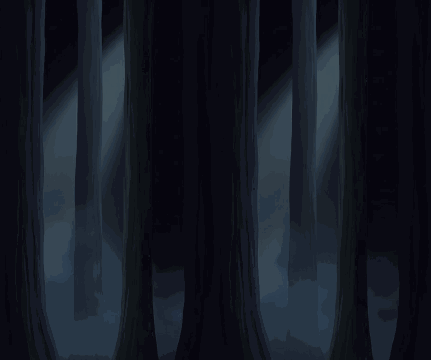
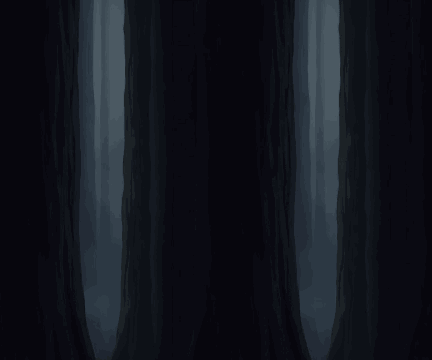
The forest background, attempt 2: no more X shapes (#191)
Matt's repaint from the attempt 2 prompt landed first attempt: straight
trunks of one width, vertical moonlight, nothing horizontal, so a tall
level's mirrored copies no longer meet in X shapes. Cropped trunk centre to
trunk centre and dimmed by half, as attempt 1 was. Draw-only.

Claude-Session: https://claude.ai/code/session_01TWiA2aGhByRtUBDPA9gUkq

diff --git a/HANDOFF.md b/HANDOFF.md
@@ -29,7 +29,8 @@ wall, the castle kit (slits, niches, piers, breaches, ivy, banners) set
 into the outer wall's back walls by rule, and the big solid blocks drawn as
 built faces with the kit in them, their dark half as deep (Matt chose this
 over cutaway, windows or thinner blocks; `ART.md`, *The foreground kit*).
-The forest kit is in the forest the same way.
+The forest kit is in the forest the same way. Every asked-for sheet is in,
+the forest background's attempt 2 included (`ART.md`).
 
 **Forest rebuild (merged at Matt's word, 2026-10-24, before he played it):** Matt, with *Ghosts 'n Goblins Resurrection* shots: ground at the
 bottom, hills, trees with boughs and greenery. The oak's slab is now a trunk
@@ -53,17 +54,13 @@ whether a frond over the hero's legs ever hides something.
 3. **Look at N2's after shots** (the PR) or play either Act 1 level: is a
    shot natural-looking? That closes N2. The back walls, torches and trunks
    are Claude's placements, easy to move in the level text.
-4. **Paint the forest's background, attempt 2**, in Gemini from the prompt in
-   `ART.md` (*The forest*), saved to `assets/art_raw/forest_bg_2.*`. Attempt 1
-   is in and dimmed; tall levels mirror it into X shapes when zoomed out. The
-   second tree, the castle yard and the ground cover are in.
-5. **Look at the foreground kit in both Act 1 levels**: placements are
+4. **Look at the foreground kit in both Act 1 levels**: placements are
    rules written into `[decor]`, easy to move by hand. Breach rubble near
    head height and the forest's darker ferns are the two to judge.
-6. **Frame time on a real machine**: `tools/dev.sh frametime`, then with
+5. **Frame time on a real machine**: `tools/dev.sh frametime`, then with
    `res://scenes/rooms/act1_forest.tscn` and `act1_wall.tscn`: p95 under
    16.7 ms? Blocks R3's frame-rate half.
-7. **Older and still open**: R2's final quality (the flame, the sword, the
+6. **Older and still open**: R2's final quality (the flame, the sword, the
    doors, the ride); `RoomM7Sheet` consistent in treatment (closes M7); the
    unattended calls from 2026-10-05; M4's dragon pacing; a play log (`user://`,
    #136) when one is to hand. Two rulings wait for N1: faster ladder

diff --git a/ART.md b/ART.md
@@ -563,6 +563,17 @@ level mirrors the painting down every 360 px, and the diagonal shafts and
 flared trunk bases mirror into X shapes and hourglasses. It shows only zoomed
 out. Attempt 2 fixes it at the source.
 
+**Forest background, attempt 2, landed first attempt (2026-10-24)**
+(`assets/art_raw/forest_bg_2.jpg`): straight trunks of one width, vertical
+shafts, nothing horizontal. Cropped from one big trunk's centre to the same
+trunk two bays on (94 to 1015), so every mirror seam falls on a trunk, and
+dimmed by the same half, which matches attempt 1's brightness:
+
+    tools/pixelate.py assets/art_raw/forest_bg_2.jpg assets/art/forest/forest_bg_px.png --crop 94,1015 --dim 0.5
+
+432x360 at 24 colours, palette check passes. Zoomed out on the tall
+forest, the X shapes and hourglasses are gone.
+
 **Forest background, attempt 2: the prompt, for Matt to paint in Gemini.**
 Attempt 1's prompt with the light and the mist made symmetric top to bottom,
 so the vertical mirror has nothing to reflect: the shafts fall straight down,
